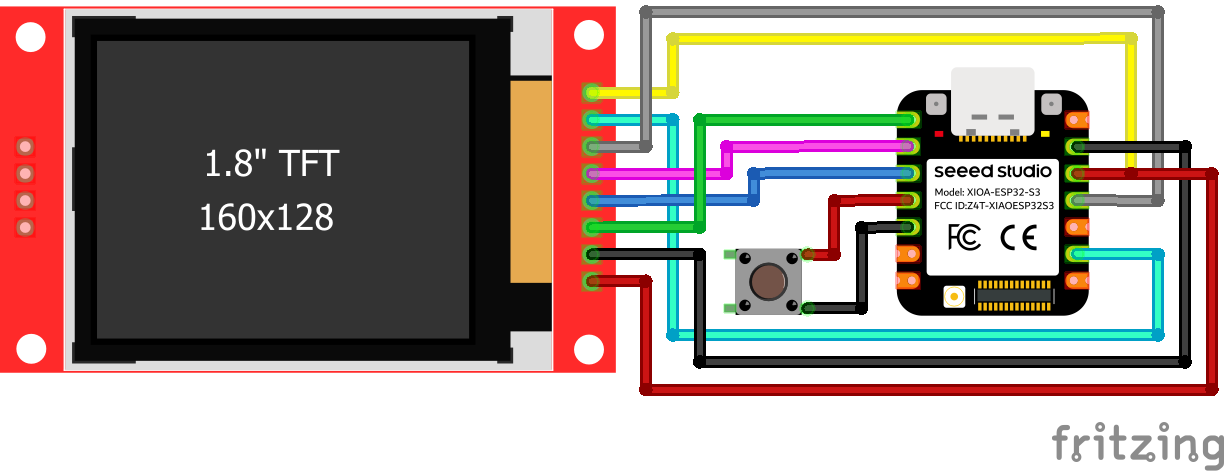
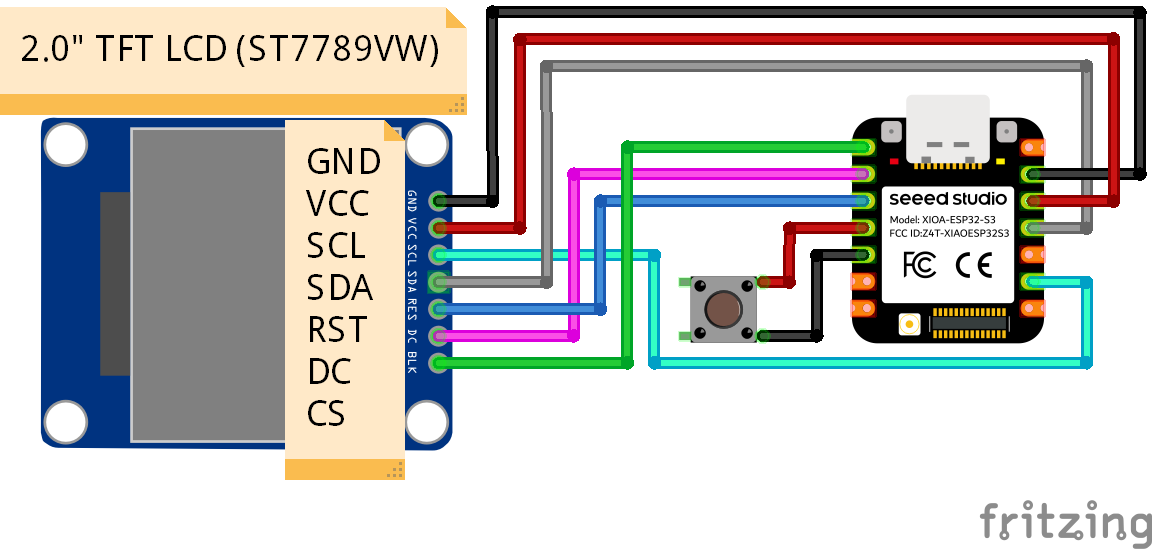
Remove embedded photo gallery from README
- Updated connections.fzz and images/connections.png based on screen updates.
- Also removed the photo gallery from README. They were containing connections based on older (1.8") tft screen.

diff --git a/README.md b/README.md
@@ -100,18 +100,6 @@ To create a portable retro camera, components are soldered onto a perfboard and 
 **Important Power Requirement:**
 When the Seeed Studio XIAO ESP32-S3 is powered via the battery connector, the 5V output is disabled. Therefore, the **TFT Display VCC and LED pins must be connected to the 3.3V pin** instead of 5V to ensure proper operation on battery power.
 
-The gallery below demonstrates the soldering steps, wiring logic, and the final handheld assembly:
-
-<div align="center">
-  <img src="images/photo_1.jpg" width="30%" alt="Perfboard Layout">
-  <img src="images/photo_2.jpg" width="30%" alt="Wiring Back">
-  <img src="images/photo_3.jpg" width="30%" alt="Battery Connection">
-  <br>
-  <img src="images/photo_4.jpg" width="30%" alt="Power Soldering">
-  <img src="images/photo_5.jpg" width="30%" alt="Front Assembly">
-  <img src="images/photo_6.jpg" width="30%" alt="Side View">
-</div>
-
 ## Installation & Setup
 
 ### PlatformIO Installation (Recommended)
